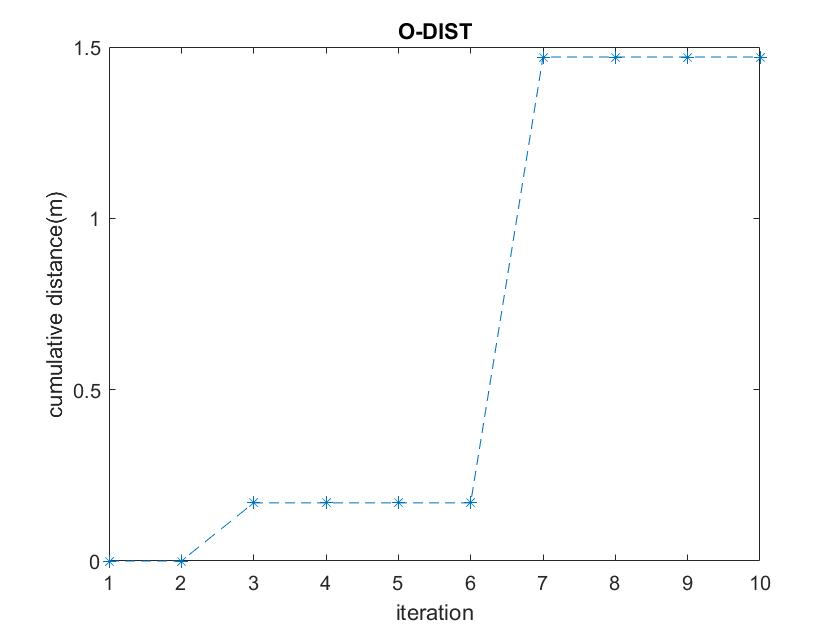
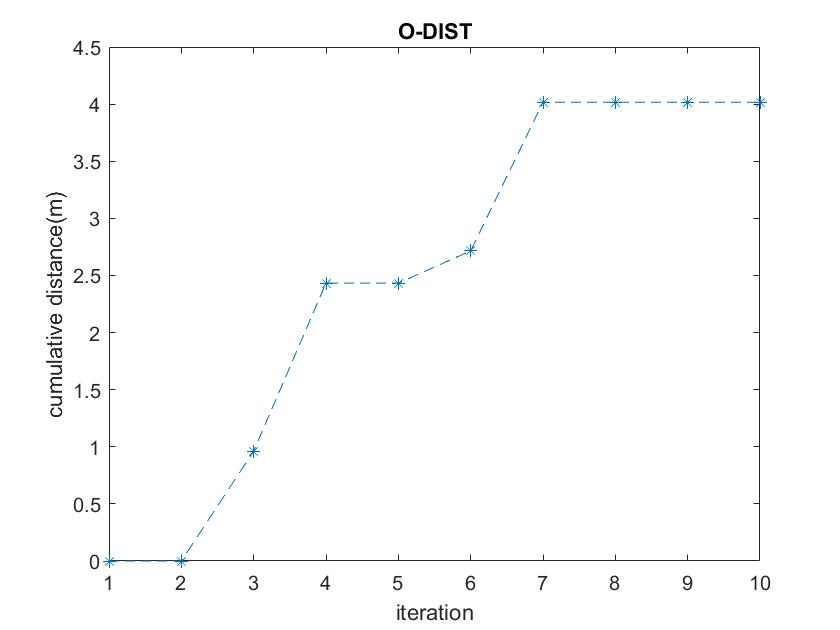
knn added

diff --git a/extension_2_knn.m b/extension_2_knn.m
@@ -1,0 +1,72 @@
+%% Additional point localization part: comparing with KNN
+clear all
+close all
+clc
+
+load cps_data
+
+figure(1)
+make_grid(xc,yc,xs,ys,l_room)
+%% runtime phase
+figure(1), hold on
+
+ni=50;
+[c_is_lower,Om,Apseudo] = reduce_coherence(A);
+success = 0;
+dist=zeros(ni, 1);
+cell=randperm(p, ni);
+
+for it=1:ni
+    [xm,ym] = get_ref(cell(it),l,p);  % position from measured cell
+    p1 = plot(xm,ym,'sb','MarkerSize',10, 'DisplayName','Target');
+    
+    d = vecnorm(([xm,ym]-[xs(:),ys(:)])')';
+    y = get_rss(Pt,dev_std,d);
+    
+    if c_is_lower
+        yp=Om*Apseudo*y;
+        Ap=Om;
+    else
+        yp=y;
+        Ap=A;
+    end
+    
+    
+    p_cell = knnsearch(Ap',yp','dist','euclidean','k',1);
+    
+    % if(m>1)
+    %     d = +inf;
+    %     p_cell = -1;
+    %     for j = 1 : p
+    %         argum = 0;
+    %         for i = 1 : n
+    %             argum = argum + (norm(y((i-1)*m+1 :(i-1)*m+m,1)-A((i-1)*m+1:(i-1)*m+m,j)));
+    %         end
+    %         if argum < d
+    %             p_cell = j-1; %j-1 così è già sistemato (non faccio p_cell-1)
+    %             d = argum;
+    %         end
+    %     end
+    % end
+    
+    [xe,ye] = get_ref(p_cell,l,p);  % position from estimated cell
+    p2 = scatter(xe, ye,'filled','MarkerEdgeColor',[0 .5 .5],'MarkerFaceColor',[0 .7 .7],'LineWidth',1.5,'DisplayName','Estimated');
+    dist(it)= norm([xe ye] - [xm ym]);
+    
+    if cell(it)==mode(p_cell)
+        fprintf('Success\n');
+        success=success+1;
+    else
+        fprintf('Fail\n');
+    end
+    fprintf('Cella: %d, Predetta: %d\n', cell(it), mode(p_cell));
+    %pause()
+    delete(p1)
+    delete(p2)
+end
+
+figure()
+plot([1:ni], dist, '--*')
+xlabel('iteration')
+ylabel('distance(m)')
+title(['K-NN - Success rate = ', num2str(success/ni*100), '%'])

diff --git a/helpers/move.m b/helpers/move.m
@@ -1,14 +1,23 @@
 function [position] = move(position, l_room)
 %MOVE target in an adjacent cell
-moves=[1 -10 10 -1];
+if mod(position, 10)==0
+    moves=[-10 10 -1];
+    poss=3;
+elseif mod(position, 10)==1
+    moves=[1 -10 10];
+    poss=3;
+else
+    moves=[1 -10 10 -1];
+    poss=4;
+end
 %1 -> up
 %-10 -> left
 %10 -> right
 %-1 -> down
 
-casual=randperm(4);
+casual=randperm(poss);
 
-for i=1:5
+for i=1:poss
     if position+moves(casual(i))<=l_room^2 && position+moves(casual(i))>0
         break
     end

diff --git a/tracking_casual.m b/tracking_casual.m
@@ -13,7 +13,7 @@ figure(1), hold on
 lam = 1e-4;
 tau = 0.7;
 max_iter = 1e3;
-min_eps = 1e-4;
+min_eps = 1e-5;
 success = 0;
 
 ni = 50;
@@ -59,6 +59,7 @@ for it = 1:ni
     fprintf('Position: %d, Estimation: %d\n', c, mode(ce));
     
     position=move(position, l_room);
+    pause()
     delete(p1), delete(p2)
 end
 

diff --git a/tracking_diagonal.m b/tracking_diagonal.m
@@ -13,7 +13,7 @@ figure(1), hold on
 lam = 1e-4;
 tau = 0.7;
 max_iter = 1e2;
-min_eps = 1e-4;
+min_eps = 1e-5;
 success = 0;
 
 ni = l_room;
